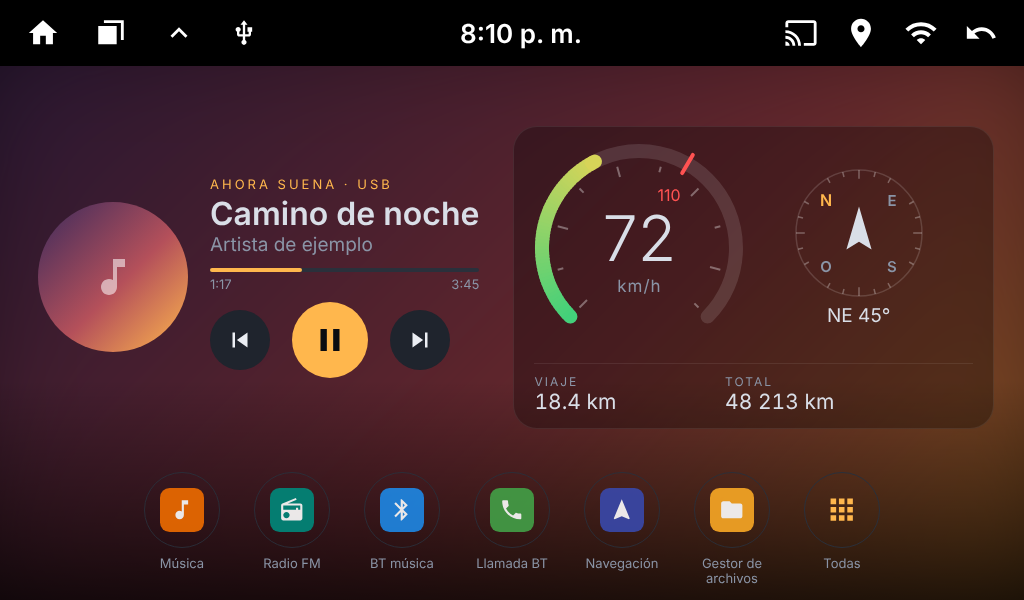
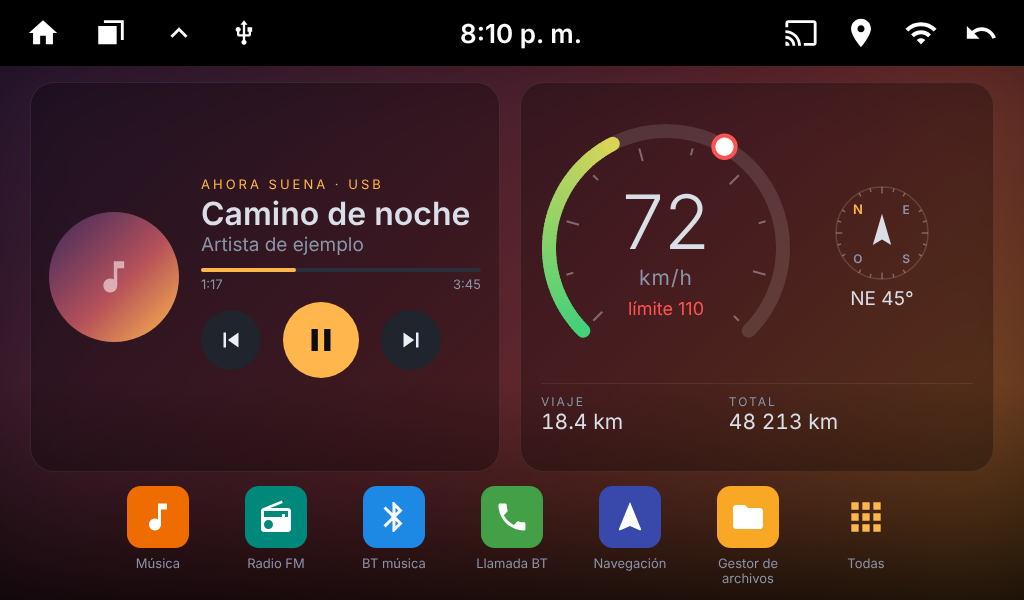
Docs 3.6.0: README, CHANGELOG, créditos de la voz e imágenes del nuevo diseño
Claude-Session: https://claude.ai/code/session_011vyBQ6bBFkKsMFyk998ioB

diff --git a/docs/preview/instrumentos.py b/docs/preview/instrumentos.py
@@ -1,12 +1,12 @@
 #!/usr/bin/env python3
-"""Inicio 3.6 (diseño A, 50/50): música en la mitad izquierda; velocidad, brújula y odómetro en la derecha.
+"""Inicio 3.6 (diseño A, 50/50): música y velocímetro en tarjetas de cristal iguales; dock sin círculos.
 
 Genera docs/screenshots/01, 02 y 05 (render del diseño, no capturas del equipo).
     pip install playwright pillow && python3 docs/preview/instrumentos.py
 """
 import math, pathlib, sys
 sys.path.insert(0, str(pathlib.Path(__file__).resolve().parent))
-from nocturno import INK, ring, ring_app  # noqa: E402
+from nocturno import INK, ring, ring_app, aicon, APPS  # noqa: E402
 from propuestas import frame, ico, cover, btn, prog, ACC, DIM, ART  # noqa: E402
 from playwright.sync_api import sync_playwright  # noqa: E402
 
@@ -28,7 +28,7 @@ def mix(t):
     return "#%02X%02X%02X" % tuple(round(a[i] + (b[i] - a[i]) * u) for i in range(3))
 
 
-def speed_gauge(speed, limit, size=210, maxv=180, stroke=14):
+def speed_gauge(speed, limit, size=250, maxv=180, stroke=14):
     c, r = size / 2, size / 2 - stroke / 2 - 1
     a0, sweep = -135, 270
     track = ""
@@ -47,23 +47,23 @@ def speed_gauge(speed, limit, size=210, maxv=180, stroke=14):
         a = a0 + sweep * v / maxv; l = r * (.11 if v % 40 == 0 else .06)
         (px, py), (qx, qy) = pt(c, inner, a), pt(c, inner - l, a)
         ticks += f'<line x1="{px:.1f}" y1="{py:.1f}" x2="{qx:.1f}" y2="{qy:.1f}" stroke="rgba(255,255,255,.35)" stroke-width="2"/>'
-    lim = ""
-    if limit:
-        a = a0 + sweep * limit / maxv; h = stroke * .75
-        (px, py), (qx, qy) = pt(c, r - h, a), pt(c, r + h, a)
-        tx, ty = pt(c, inner - r * .25, a)
-        lim = (f'<line x1="{px:.1f}" y1="{py:.1f}" x2="{qx:.1f}" y2="{qy:.1f}" stroke="#FF5252" stroke-width="4" stroke-linecap="round"/>'
-               f'<text x="{tx:.1f}" y="{ty + 5:.1f}" text-anchor="middle" font-size="{size * .075:.0f}" fill="#FF5252" font-family="Inter">{limit}</text>')
+    a = a0 + sweep * (limit or 0) / maxv
+    kx, ky = pt(c, r, a)
+    op = 1 if limit else .43
+    lim = (f'<circle cx="{kx:.1f}" cy="{ky:.1f}" r="{stroke*.8:.1f}" fill="#fff" fill-opacity="{op}" stroke="#FF5252" stroke-opacity="{op}" stroke-width="4"/>')
+    lim_txt = (f"límite {limit}" if limit else "sin límite")
+    lim_col = "#FF5252" if limit else DIM
     num_col = "#FF5252" if (speed and limit and speed > limit) else INK
     label = "--" if speed is None else str(speed)
     return (f'<div style="position:relative;width:{size}px;height:{size}px;flex:none">'
             f'<svg width="{size}" height="{size}">{track}{prog_}{ticks}{lim}</svg>'
             f'<div style="position:absolute;inset:0;display:flex;flex-direction:column;align-items:center;justify-content:center;padding-top:8px">'
             f'<div style="font-size:{int(size*.30)}px;font-weight:300;color:{num_col};line-height:1">{label}</div>'
-            f'<div style="margin-top:6px;font-size:{int(size*.085)}px;color:{DIM};letter-spacing:1px">km/h</div></div></div>')
+            f'<div style="margin-top:6px;font-size:{int(size*.085)}px;color:{DIM};letter-spacing:1px">km/h</div>'
+            f'<div style="margin-top:8px;font-size:{int(size*.075)}px;color:{lim_col}">{lim_txt}</div></div></div>')
 
 
-def compass(heading, size=130):
+def compass(heading, size=96):
     c, rr = size / 2, size / 2 - 2
     rot = heading if heading is not None else 0
     ticks = ""
@@ -75,7 +75,7 @@ def compass(heading, size=130):
     letters = ""
     for d, t in ((0, "N"), (90, "E"), (180, "S"), (270, "O")):
         x, y = pt(c, rr * .74, d - rot)
-        letters += f'<text x="{x:.1f}" y="{y + 5.5:.1f}" text-anchor="middle" font-size="{16 if t == "N" else 15}" font-weight="600" fill="{ACC if t == "N" else DIM}" font-family="Inter">{t}</text>'
+        letters += f'<text x="{x:.1f}" y="{y + 5.5:.1f}" text-anchor="middle" font-size="{13 if t == "N" else 12}" font-weight="600" fill="{ACC if t == "N" else DIM}" font-family="Inter">{t}</text>'
     arrow_col = INK if heading is not None else "rgba(255,255,255,.25)"
     arrow = f'<path d="M{c},{c - rr*.42:.1f} L{c + rr*.2:.1f},{c + rr*.26:.1f} L{c},{c + rr*.14:.1f} L{c - rr*.2:.1f},{c + rr*.26:.1f} Z" fill="{arrow_col}"/>'
     text = f'{cardinal(heading)} {heading}°' if heading is not None else "—"
@@ -89,31 +89,41 @@ def odo(label, value, grow=1):
             f'<div style="font-size:21px;color:{INK};font-variant-numeric:tabular-nums">{value}</div></div>')
 
 
+def dock_app(i):
+    return (f'<div style="display:flex;flex-direction:column;align-items:center;gap:8px;width:104px">{aicon(i, 62)}'
+            f'<div style="font-size:13px;color:{DIM};text-align:center;line-height:1.15;height:30px;overflow:hidden">{APPS[i][0]}</div></div>')
+
+
+def dock_all():
+    return (f'<div style="display:flex;flex-direction:column;align-items:center;gap:8px;width:104px"><div style="width:62px;height:62px;display:flex;align-items:center;justify-content:center">{ico("apps", 44, ACC)}</div>'
+            f'<div style="font-size:13px;color:{DIM};text-align:center;line-height:1.15;height:30px;overflow:hidden">Todas</div></div>')
+
+
 def home(speed, heading, limit, trip, total, status=None, playing=True):
     bg = (f'<div style="position:absolute;inset:-80px;background:{ART};filter:blur(70px) saturate(1.2) brightness(.5)"></div>' if playing else "")
     bg += '<div style="position:absolute;left:0;right:0;bottom:0;height:220px;background:linear-gradient(transparent,rgba(0,0,0,.7))"></div>'
     if playing:
-        src, title, artist, cov = "AHORA SUENA · USB", "Camino de noche", "Artista de ejemplo", cover(150, 75)
+        src, title, artist, cov = "AHORA SUENA · USB", "Camino de noche", "Artista de ejemplo", cover(130, 65)
         bar = f'<div style="margin-top:12px">{prog(34, 4)}</div><div style="margin-top:4px;display:flex;justify-content:space-between;font-size:13px;color:{DIM}"><span>1:17</span><span>3:45</span></div>'
         main_ico = "pause"
     else:
         src, title, artist = "MÚSICA", "Sin reproducción", "Toca para abrir la música"
-        cov = f'<div style="width:150px;height:150px;border-radius:75px;background:#1F242D;display:flex;align-items:center;justify-content:center">{ico("note", 60, DIM)}</div>'
+        cov = f'<div style="width:130px;height:130px;border-radius:65px;background:#1F242D;display:flex;align-items:center;justify-content:center">{ico("note", 60, DIM)}</div>'
         bar = '<div style="margin-top:12px;height:4px"></div><div style="margin-top:4px;height:17px"></div>'
         main_ico = "play"
-    music = (f'<div style="flex:1;display:flex;align-items:center;padding:8px">{cov}<div style="flex:1;min-width:0;margin-left:22px">'
+    music = (f'<div style="{GLASS};flex:1;display:flex;align-items:center;padding:12px 18px;box-sizing:border-box">{cov}<div style="flex:1;min-width:0;margin-left:22px">'
              f'<div style="font-size:13px;letter-spacing:3px;color:{ACC}">{src}</div>'
              f'<div style="margin-top:4px;font-size:32px;font-weight:600;color:{INK};line-height:1.15;white-space:nowrap;overflow:hidden;text-overflow:ellipsis">{title}</div>'
              f'<div style="font-size:19px;color:{DIM}">{artist}</div>{bar}'
              f'<div style="margin-top:10px;display:flex;align-items:center;gap:22px">{btn("prev", 60)}{btn(main_ico, 76, True)}{btn("next", 60)}</div></div></div>')
     st = f'<div style="margin-top:6px;text-align:center;font-size:14px;color:{ACC}">{status}</div>' if status else ""
-    card = (f'<div style="{GLASS};flex:1;padding:16px 20px 14px;box-sizing:border-box;margin-left:26px">'
+    card = (f'<div style="{GLASS};flex:1;padding:16px 20px 14px;box-sizing:border-box;margin-left:20px;display:flex;flex-direction:column;justify-content:center">'
             f'<div style="display:flex;align-items:center">{speed_gauge(speed, limit)}{compass(heading)}</div>{st}'
             f'<div style="height:1px;margin-top:10px;background:rgba(255,255,255,.08)"></div>'
             f'<div style="display:flex;margin-top:10px">{odo("VIAJE", trip + " km")}{odo("TOTAL", total + " km", 1.3)}</div></div>')
-    dock = "".join(ring_app(i) for i in range(6)) + ring("apps", "Todas", accent=True)
+    dock = "".join(dock_app(i) for i in range(6)) + dock_all()
     return frame(f"""{bg}<div style="position:absolute;inset:0;padding:16px 30px 14px;display:flex;flex-direction:column">
-  <div style="flex:1;display:flex;align-items:center">{music}{card}</div>
+  <div style="flex:1;display:flex;align-items:stretch;padding:0 0 14px">{music}{card}</div>
   <div style="display:flex;justify-content:center;gap:14px">{dock}</div>
 </div>""", "#000")
 

diff --git a/README.md b/README.md
@@ -7,7 +7,7 @@ Un launcher (pantalla de inicio) **ligero, estable y 100 % nativo** para los aut
 chip MediaTek **AC8227L** y el software de Jancar, como el **JCAC10003**: 1 GB de RAM, pantalla de 1024×600.
 Sustituye al launcher de fábrica sin skins ni temas, usa unos 26 MB de memoria y se entiende con los servicios
 del estéreo (música, volante, ACC, cámara de reversa) sin necesitar ningún SDK del fabricante. Desde la 3.5 muestra
-**velocidad, brújula y odómetro** con el GPS del estéreo, con **aviso de voz** al pasar el límite de velocidad que elijas.
+**velocidad, brújula y odómetro** con el GPS del estéreo, con **aviso de voz** (grabado, en español mexicano) al pasar el límite de velocidad que elijas, y atenúa la música o el vídeo mientras suena.
 
 > **Es un regalo para quien lo quiera usar.** Dominio público: cópialo, modifícalo, véndelo, mejóralo. Sin permiso, sin atribución.
 
@@ -30,15 +30,16 @@ del estéreo (música, volante, ACC, cámara de reversa) sin necesitar ningún S
 
 ## Estado del proyecto
 
-**Versión estable: 3.5.3** (noviembre de 2026), con velocímetro, brújula, odómetro y aviso de límite de velocidad; ver [`CHANGELOG.md`](CHANGELOG.md).
-**Probada por el autor en su JCAC10003** (12-nov-2026) con la variante normal (`Laucher-8227L.apk`): abre bien y el velocímetro y la brújula funcionan.
+**Versión estable: 3.6.0** (noviembre de 2026): nuevo diseño del inicio, límite de velocidad que se arrastra sobre el arco y aviso de voz grabado; ver [`CHANGELOG.md`](CHANGELOG.md).
+La base de arranque es la de la 3.5.3, **probada por el autor en su JCAC10003** (12-nov-2026): abre bien y el velocímetro y la brújula funcionan.
+Las novedades de la 3.6.0 (diseño, marquesina, límite arrastrable y voz) se probaron en un emulador de Android 8.1; la confirmación en el equipo y en carretera está pendiente.
 Las versiones 3.5.0–3.5.2 no abrían en este equipo: no las uses.
 
 - ✅ Inicio nocturno con música e instrumentos, dock de favoritos y panel de aplicaciones sin recuadros.
 - ✅ Widget de música con apps de terceros (RadilloPlayerWave) y fondo con los colores de la portada.
 - ✅ La música vuelve al encender el auto (el estéreo despierta, no reinicia).
 - ✅ Velocímetro y brújula con el GPS del estéreo, confirmados en el equipo con la 3.5.3.
-- ⏳ Odómetro y aviso de voz del límite: publicados y con pruebas automáticas (recorridos simulados y arranque en emulador en cada
+- ⏳ Odómetro y aviso de voz del límite (atenuar música/vídeo y subir el volumen): publicados y con pruebas automáticas (recorridos simulados y arranque en emulador en cada
   cambio); falta la confirmación en carretera.
 - ⏳ Variante de reemplazo (`com.android.launcher3`): compila y es la misma base, pero el autor no la ha instalado.
 - ⏳ Consumo de memoria: el informe de Diagnóstico ya muestra el desglose; queda medirlo en el equipo para recortar lo que haga falta.
@@ -74,7 +75,7 @@ Cada APK se compila en GitHub Actions a partir de este código; puedes compilarl
 2. Aparece como **«Laucher 8227L»**. Pulsa el botón **Inicio** del estéreo y, cuando pregunte qué launcher usar, elige *Laucher 8227L* →
    **«Siempre»** para dejarlo como pantalla de inicio (o «Solo una vez» si quieres seguir eligiendo).
 3. El velocímetro y el odómetro empiezan apagados: **toca la tarjeta de instrumentos** («Toca para activar velocímetro y odómetro») y concede el permiso de ubicación.
-   Después toca *Total* → *Ajustar total* y escribe los km del tablero, y toca el velocímetro para fijar tu límite de velocidad.
+   Después toca *Total* → *Ajustar total* y escribe los km del tablero, y arrastra el tirador del arco del velocímetro hasta tu límite de velocidad.
 4. Para volver al de fábrica: Ajustes → Aplicaciones → Laucher 8227L → *Borrar valores predeterminados*, o desinstálalo como cualquier app.
 
 Esta variante no toca nada del sistema: no es persistente, no usa el usuario de sistema y no pide a la «app de memoria» que arranque con el coche.
@@ -82,7 +83,7 @@ Esta variante no toca nada del sistema: no es persistente, no usa el usuario de 
 **Si el inicio no abre** (pantalla «Abrir con… una vez / siempre» que no avanza): pasaba con la 3.5.0–3.5.2 en el 8227L; la 3.5.3 ya no toca el GPS al abrir
 y, si el GPS del estéreo se cuelga, lo avisa en la tarjeta en vez de congelarse (ese GPS a veces solo se recupera con el botón RESET).
 Para salir: botón *Atrás* o *Inicio* de la barra del sistema y elige el launcher de fábrica; si elegiste «Siempre», entra en
-Ajustes → Aplicaciones → Laucher 8227L → *Borrar valores predeterminados* (o `adb uninstall com.webgdl.launcher8227`) e instala la 3.5.3.
+Ajustes → Aplicaciones → Laucher 8227L → *Borrar valores predeterminados* (o `adb uninstall com.webgdl.launcher8227`) e instala la 3.6.0.
 Si el launcher se cierra solo, deja `Android/data/com.webgdl.launcher8227/files/crash.txt` en la memoria del estéreo: adjúntalo en un *issue*.
 
 ## Instalación de la versión de reemplazo (avanzado)
@@ -102,13 +103,14 @@ Si no estás seguro de poder revertirla, **no la instales**: usa `Laucher-8227L.
 - **Inicio** de una sola pantalla: la música a la izquierda, los instrumentos a la derecha y un dock con 6 favoritos y «Todas». La hora y el estado los da la barra del sistema.
 - **Velocímetro** de arco (0–180 km/h) con degradado verde → amarillo → rojo, **brújula** con el rumbo (N, NE, E… y grados) y
   **odómetro** de viaje y total, todo con el GPS del estéreo (1 posición por segundo):
-  - **Límite de velocidad**: toca el velocímetro y escribe los km/h (por ejemplo 110). Aparece una marca roja en el arco y, si lo pasas
-    más de 2 s, una voz dice «Está excediendo el límite de velocidad» (se repite cada 30 s mientras sigas por encima; sin voz instalada, suena un pitido).
-    El número se pone rojo. «Desactivar» lo quita.
+  - **Límite de velocidad**: arrastra el tirador blanco por el arco del velocímetro (de 5 en 5 km/h; hasta el inicio = sin límite) y se guarda al soltar.
+    Si lo pasas más de 2 s suena una **grabación** de voz femenina en español mexicano: «Está excediendo el límite de velocidad». La música o el vídeo bajan de volumen
+    mientras suena y el volumen sube para que se oiga; se repite cada 30 s mientras sigas por encima (si falla la reproducción, suena un pitido).
+    El número se pone rojo. Pulsación larga en el centro del velocímetro: probar el aviso.
   - **Odómetro**: tócalo para *Reiniciar viaje a 0*, *Ajustar viaje* o *Ajustar total* (al número del tablero del auto). Atajos: pulsación larga en Viaje para reiniciarlo, en Total para ajustarlo.
   - Se descartan posiciones imprecisas, el «baile» del GPS con el auto parado y los saltos imposibles. Se mide solo con el auto encendido; una notificación
     silenciosa «Odómetro» mantiene el GPS activo aunque tengas otra app delante. Empiezan apagados: se activan tocando la tarjeta (y se apagan desde el menú del odómetro).
-- **Música** con título, artista, portada redonda, fondo con sus colores, progreso, tiempos y anterior / play‑pausa / siguiente. Funciona con las fuentes de fábrica (música, radio,
+- **Música** con título y artista (con marquesina si son largos), portada redonda, fondo con sus colores, progreso, tiempos y anterior / play‑pausa / siguiente. Funciona con las fuentes de fábrica (música, radio,
   vídeo, Bluetooth) y con **apps de terceros**: para estas obtiene el paquete, el estado y la posición de la sesión multimedia de Android, de modo que
   al tocar la portada o el título se abre la app que está sonando. Pulsación larga para elegir la app de música por defecto.
 - **Todas las aplicaciones** en una vista superpuesta (6 columnas), con menú contextual: añadir/quitar favoritos, ocultar, información de la app y desinstalar.
@@ -189,7 +191,7 @@ src/com/android/launcher3/
   car/Guard.java            seguro de arranque por etapas de los instrumentos
   car/PermissionActivity.java  pide el permiso de ubicación fuera de la pantalla de inicio
   car/TripService.java      servicio en primer plano mientras el auto está encendido
-  car/SpeedAlert.java       aviso de voz (TextToSpeech) o pitido
+  car/SpeedAlert.java       aviso de voz grabado (res/raw/exceso_velocidad.ogg), atenuación de la música y pitido de respaldo
   DiagnosticsActivity.java  informe de memoria, servicios y registro
 res/                        layouts, vectores y textos (es/en)
 tools/                      get-tools.sh, Sign.java, Verify.java
@@ -214,6 +216,11 @@ Todo es bienvenido: capturas reales, informes de Diagnóstico de otros equipos, 
 
 [The Unlicense](LICENSE): dominio público. Consulta <https://unlicense.org>.
 
+### Créditos
+
+El aviso de voz (`res/raw/exceso_velocidad.ogg`) se generó con el modelo de voz [Piper](https://github.com/rhasspy/piper) **es_MX-claude-high**
+(licencia Apache-2.0 según su ficha; basado en un conjunto de datos de HirCoir). El script está en [`docs/audio/generar_aviso.py`](docs/audio/generar_aviso.py).
+
 ---
 
 ## English summary
@@ -221,8 +228,8 @@ Todo es bienvenido: capturas reales, informes de Diagnóstico de otros equipos, 
 A lightweight, fully native home-screen (launcher) for cheap Jancar/alps **AC8227L** Android car head units such as the **JCAC10003** (1 GB RAM, 1024×600).
 It replaces the factory launcher with a single-activity, ~80 KB, ~26 MB-PSS app that talks to the head unit's `com.jancar.services` (music, ACC, reverse camera, screen-off)
 through its own binder client. Third-party music apps are supported through Android media sessions. Since 3.5 it also shows a GPS speedometer (green→yellow→red),
-a compass and trip/total odometers, with a spoken warning when you exceed a speed limit you set (tap the speedometer).
+a compass and trip/total odometers, with a recorded spoken warning (Mexican Spanish) when you exceed a speed limit you set by dragging a knob along the speedometer arc; music/video is ducked meanwhile.
 
-**Download (stable 3.5.3, tested on the device):** [`Laucher-8227L.apk`](https://github.com/web-gdl/Laucher_8227L_JCAC10003/releases/latest/download/Laucher-8227L.apk) (installs like a normal app; the one to use) ·
+**Download (stable 3.6.0; the 3.5.3 startup base was tested on the device):** [`Laucher-8227L.apk`](https://github.com/web-gdl/Laucher_8227L_JCAC10003/releases/latest/download/Laucher-8227L.apk) (installs like a normal app; the one to use) ·
 [`Laucher-8227L-reemplazo.apk`](https://github.com/web-gdl/Laucher_8227L_JCAC10003/releases/latest/download/Laucher-8227L-reemplazo.apk) (replaces the factory launcher, needs `adb`).
 In daily use on one JCAC10003. APKs are signed with the public AOSP platform test key (see *Seguridad*). Public domain (Unlicense); provided as is, with no warranty.

diff --git a/CHANGELOG.md b/CHANGELOG.md
@@ -2,9 +2,24 @@
 
 Todas las versiones se publican en [Releases](https://github.com/web-gdl/Laucher_8227L_JCAC10003/releases) con los dos APK y sus sumas.
 
+## 3.6.0: nuevo diseño, límite arrastrable y aviso de voz grabado
+
+Las novedades se probaron en un emulador de Android 8.1 (arranque, GPS simulado, aviso de voz). **Pendiente de confirmar en el equipo y en carretera**; el arranque conserva el seguro de la 3.5.3.
+
+- **Aviso de voz grabado**: el estéreo no trae voz del sistema, así que el aviso «Está excediendo el límite de velocidad» es un archivo OGG
+  (voz femenina en español mexicano, Piper es_MX-claude-high, Apache-2.0; ver Créditos en el README). Mientras suena baja la música o el vídeo
+  (enfoque de audio «duck») y sube el volumen a ≥ 85 % para que se oiga, y luego lo restaura. Si no se puede reproducir, suena un pitido.
+- **Límite de velocidad arrastrable**: ya no se escribe la cifra; se arrastra el tirador por todo el arco (pasos de 5 km/h, al inicio = sin límite)
+  y se guarda al soltar. Bajo «km/h» se lee «límite 110» o «sin límite».
+- **Rediseño del inicio**: música y velocímetro en dos tarjetas de cristal del mismo alto (50/50); velocímetro más grande (250), brújula más
+  pequeña (96), portada 130 y dock sin círculos detrás de los iconos.
+- **Marquesina** en el título y en el artista cuando son largos.
+- Pulsación larga en el centro del velocímetro: probar el aviso de voz. Tocar el centro sigue activando o reparando el GPS.
+- Imágenes del README regeneradas.
+
 ## 3.5.3: el inicio abre siempre; instrumentos por etapas
 
-**Probada en el JCAC10003 (12-nov-2026): abre bien y el velocímetro y la brújula funcionan.** Versión estable.
+**Probada en el JCAC10003 (12-nov-2026): abre bien y el velocímetro y la brújula funcionan.**
 
 La 3.5.2 no resolvió el bloqueo en el alps 8227L (el inicio no abría y el sistema se congelaba). En un emulador de Android 8.1
 las versiones 3.5.x arrancan bien, así que el fallo depende del equipo; el GPS de este estéreo ya se colgaba de vez en cuando
